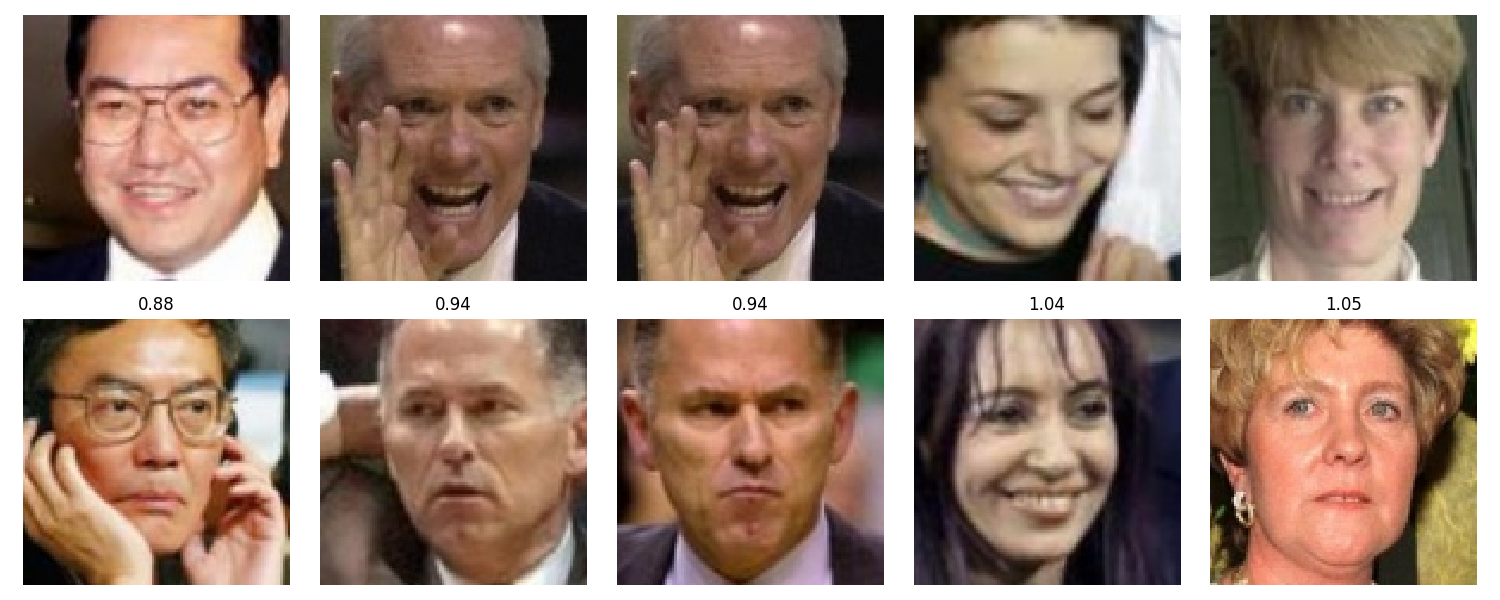
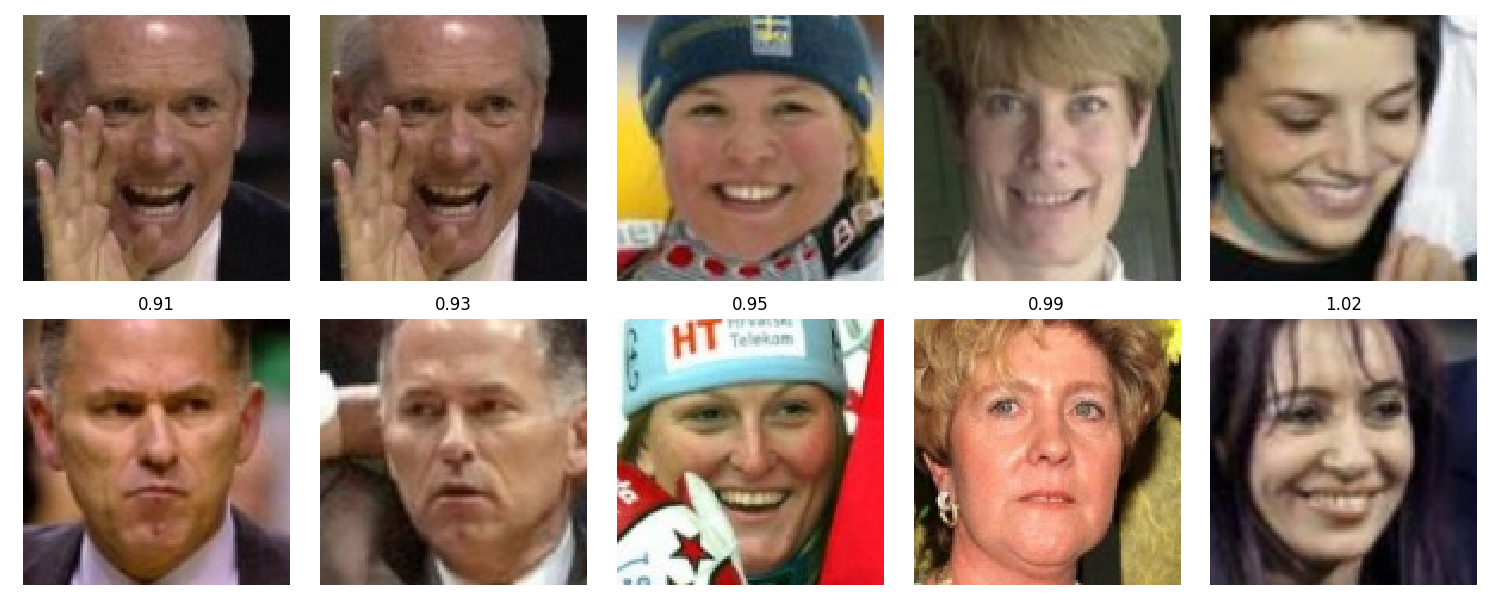
update model and results

diff --git a/ArcFace/test.py b/ArcFace/test.py
@@ -15,7 +15,7 @@ from mxnet.gluon.data import DataLoader
 from mxnet.gluon.data.vision import ImageRecordDataset
 
 from utils import helper
-from utils.evaluation import evaluate_pairs, top_k_failure_pairs
+from utils.evaluation import evaluate_pairs, top_pairs
 from ArcFace.resnet import resnet100
 from ArcFace.transforms import ToTensor
 from data.show_record import show_images
@@ -54,7 +54,7 @@ def eval_lfw(inference, test_rec, test_loader, ctx):
 def top_failure_pairs_lfw(inference, test_rec, test_loader, ctx):
     features, _ = extract_features(inference, test_loader, ctx)
     pair_file = os.path.join(os.path.dirname(test_rec), 'lfw_pairs.txt')
-    failures = top_k_failure_pairs(pair_file, features)
+    failures = top_pairs(pair_file, features)
     return failures
 
 
@@ -94,13 +94,13 @@ def evaluate():
         accuracies = accuracies.tolist() + [mu, std]
         logger.info(' '.join('{:.2f}'.format(x) for x in accuracies))
     elif args.test_name.lower() == 'lfw-failure':
-        print('Show LFW failure pairs...')
-        false_indices, false_sim = top_failure_pairs_lfw(inference, args.test_rec, test_loader, ctx)
-        images = mx.nd.stack(*[test_dataset[idx][0] for idx in false_indices])
-        false_sim_str = ['{:.2f}'.format(x) for x in false_sim]
-        show_images(images[:10], titles=[''] * 5 + false_sim_str[:5], ncols=5)
-        show_images(images[10:], titles=[''] * 5 + false_sim_str[5:], ncols=5)
-        logger.info(' '.join(false_sim_str))
+        print('Show LFW pairs...')
+        indices, sim = top_failure_pairs_lfw(inference, args.test_rec, test_loader, ctx)
+        images = mx.nd.stack(*[test_dataset[idx][0] for idx in indices])
+        sim_str = ['{:.2f}'.format(x) for x in sim]
+        for idx in range(4):
+            show_images(images[idx * 10:(idx + 1) * 10], titles=[''] * 5 + sim_str[idx * 5:(idx + 1) * 5], ncols=5)
+        logger.info(' '.join(sim_str))
 
 
 if __name__ == '__main__':
@@ -113,7 +113,7 @@ if __name__ == '__main__':
     parser.add_argument('--prefix', default='arcface', help='prefix')
     parser.add_argument('--model', default='shared/ArcFace/arcface-glint-nocolor-symbol.json',
                         help='pretrained model')
-    parser.add_argument('--test_name', default='lfw-failure', help='name of the test set')
+    parser.add_argument('--test_name', default='lfw', help='name of the test set')
     parser.add_argument('--test_rec', default='/mnt/Datasets/lfw/lfw_dlib_prnet.rec', help='test record')
 
     parser.add_argument('--emb_size', default=512, type=int, help='embedding size')

diff --git a/utils/evaluation.py b/utils/evaluation.py
@@ -2,7 +2,7 @@ import numpy as np
 from scipy.spatial.distance import cosine
 
 
-def top_k_failure_pairs(pair_file, features1, features2=None, k=5):
+def top_pairs(pair_file, features1, features2=None, k=5):
     if features2 is None:
         features2 = features1
     # Read pairs and labels
@@ -12,20 +12,27 @@ def top_k_failure_pairs(pair_file, features1, features2=None, k=5):
     labels = pairs[:, 2]
     # Compare feature pairs
     sim = compare_pairs(features1[f1, :], features2[f2, :])
-    # Negative pairs
-    neg_idx = labels == 0
-    neg_pairs = pairs[neg_idx, :2]
-    neg_sim = sim[neg_idx]
-    top_false_pos = np.argsort(neg_sim)[:k]
     # Positive pairs
     pos_idx = labels == 1
     pos_pairs = pairs[pos_idx, :2]
     pos_sim = sim[pos_idx]
-    top_false_neg = np.argsort(pos_sim)[-k:]
-
-    false_indices = neg_pairs[top_false_pos].flatten('F').tolist() + pos_pairs[top_false_neg].flatten('F').tolist()
-    false_sim = neg_sim[top_false_pos].tolist() + pos_sim[top_false_neg].tolist()
-    return false_indices, false_sim
+    arg_sort_pos_sim = np.argsort(pos_sim)
+    top_true_pos = pos_pairs[arg_sort_pos_sim[:k]].flatten('F')
+    top_true_pos_sim = pos_sim[arg_sort_pos_sim[:k]]
+    top_false_neg = pos_pairs[arg_sort_pos_sim[-k:]].flatten('F')
+    top_false_neg_sim = pos_sim[arg_sort_pos_sim[-k:]]
+    # Negative pairs
+    neg_idx = labels == 0
+    neg_pairs = pairs[neg_idx, :2]
+    neg_sim = sim[neg_idx]
+    arg_sort_neg_sim = np.argsort(neg_sim)
+    top_true_neg = neg_pairs[arg_sort_neg_sim[-k:]].flatten('F')
+    top_true_neg_sim = neg_sim[arg_sort_neg_sim[-k:]]
+    top_false_pos = neg_pairs[arg_sort_neg_sim[:k]].flatten('F')
+    top_false_pos_sim = neg_sim[arg_sort_neg_sim[:k]]
+    indices = np.hstack([top_true_pos, top_true_neg, top_false_pos, top_false_neg]).tolist()
+    sim = np.hstack([top_true_pos_sim, top_true_neg_sim, top_false_pos_sim, top_false_neg_sim]).tolist()
+    return indices, sim
 
 
 def evaluate_pairs(pair_file, features1, features2=None, kfold=10):

diff --git a/ArcFace/export.py b/ArcFace/export.py
@@ -29,7 +29,7 @@ if __name__ == '__main__':
     parser = argparse.ArgumentParser()
     # output
     parser.add_argument('--output', default='shared/ArcFace/arcface-glint-nocolor', help='output model')
-    parser.add_argument('--model', default='shared/ArcFace/arcface-glint-nocolor-best-337551.params',
+    parser.add_argument('--model', default='shared/ArcFace/arcface-glint-nocolor-best-172367.params',
                         help='pretrained model')
     parser.add_argument('--img_size', default='112,112', type=str, help='image size')
     parser.add_argument('--emb_size', default=512, type=int, help='embedding size')

diff --git a/README.md b/README.md
@@ -111,10 +111,16 @@ and unpack it to a directory, e.g., **/mnt/Datasets/lfw/images**
 
   | Test set | Accuracy |
   |:--------:|:--------:|
-  | LFW |  99.85 ± 0.22 |
+  | LFW |  99.85 ± 0.20 |
   
 ## Discussion
 **LFW**
++ Top 5 true positive pairs
+  ![lfw true_positive_pairs](docs/lfw-true-positive.png)
+  <!-- .element height="50%" width="50%" -->
++ Top 5 true negative pairs
+  ![lfw true_negative_pairs](docs/lfw-true-negative.png)
+  <!-- .element height="50%" width="50%" -->
 + Top 5 false positive pairs
   ![lfw false_positive_pairs](docs/lfw-false-positive.png)
   <!-- .element height="50%" width="50%" -->
